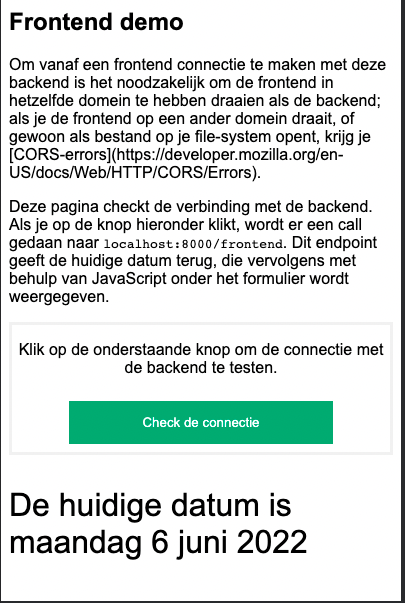
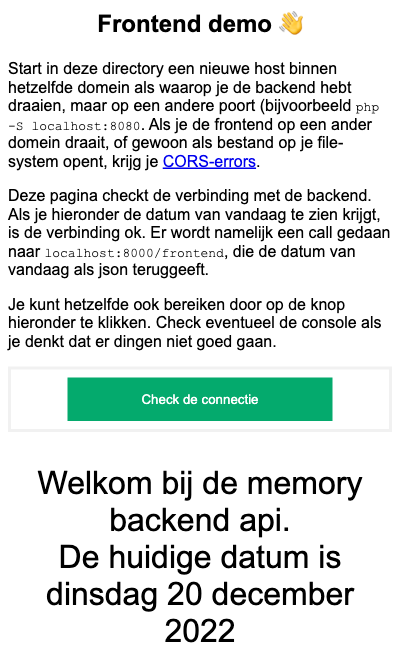
Nieuw endpoint voor het aantal spelletje per dag 😅🥖

diff --git a/frontend/index.html b/frontend/index.html
@@ -8,24 +8,26 @@
     <style>
         body {font-family: Arial, Helvetica, sans-serif;}
         form {border: 3px solid #f1f1f1; text-align:center;}
+        h2 { text-align:center; }
 
         input[type=text], input[type=password] { width: 100%; padding: 12px 20px; margin: 8px 0; display: inline-block; border: 1px solid #ccc; box-sizing: border-box; }
         button { background-color: #04AA6D; color: white; padding: 14px 20px; margin: 8px 0; border: none; cursor: pointer; width: 70%; }
         button:hover { opacity: 0.8; }
         .container { padding: 16px; }
-        #result { font-size:2rem; }
+        #result { font-size:2rem; text-align:center; }
     </style>
 </head>
 <body>
 
-    <h2>Frontend demo</h2>
+    <h2>Frontend demo 👋</h2>
 
-    <p>Om vanaf een frontend connectie te maken met deze backend is het noodzakelijk om de frontend in hetzelfde domein te hebben draaien als de backend; als je de frontend op een ander domein draait, of gewoon als bestand op je file-system opent, krijg je <a href="https://developer.mozilla.org/en-US/docs/Web/HTTP/CORS/Errors">CORS-errors</a>.</p>
-    <p>Deze pagina checkt de verbinding met de backend. Als je op de knop hieronder klikt, wordt er een call gedaan naar <tt>localhost:8000/frontend</tt>. Dit endpoint geeft de huidige datum terug, die vervolgens met behulp van JavaScript onder het formulier wordt weergegeven.</p>
+    <p>Start in deze directory een nieuwe host binnen hetzelfde domein als waarop je de backend hebt draaien, maar op een andere poort (bijvoorbeeld <tt>php -S localhost:8080</tt>. Als je de frontend op een ander domein draait, of gewoon als bestand op je file-system opent, krijg je <a href="https://developer.mozilla.org/en-US/docs/Web/HTTP/CORS/Errors">CORS-errors</a>.</p>
 
+    <p>Deze pagina checkt de verbinding met de backend. Als je hieronder de datum van vandaag te zien krijgt, is de verbinding ok. Er wordt namelijk een call gedaan naar <tt>localhost:8000/frontend</tt>, die de datum van vandaag als json teruggeeft.</p>
 
+    <p>Je kunt hetzelfde ook bereiken door op de knop hieronder te klikken. Check eventueel de console als je denkt dat er dingen niet goed gaan.</p>
+        
     <form>
-        <p>Klik op de onderstaande knop om de connectie met de backend te testen.</p>
         <button id="btn" value="">Check de connectie</button>
     </form>
 
@@ -34,11 +36,19 @@
 </body>
 
 <script>
+
+    const check = () => {
         fetch('http://localhost:8000/frontend')
         .then( resp => resp.json() )
         .then( json => {
+            console.log(json)
             let datum = new Date(json['date']).toLocaleDateString('NL-nl', { weekday: 'long', year: 'numeric', month: 'long', day: 'numeric'} )
-            document.getElementById('result').innerHTML = `De huidige datum is ${datum}`
+            document.getElementById('result').innerHTML = json['message']
+            document.getElementById('result').innerHTML += `<br/>De huidige datum is ${datum}`
         })
+    }
+
+    check()
+    document.getElementById('btn').addEventListener('click', c => check() )
 </script>
 </html>

diff --git a/src/Controller/AdminController.php b/src/Controller/AdminController.php
@@ -3,6 +3,7 @@
 namespace App\Controller;
 
 use Doctrine\Persistence\ManagerRegistry;
+use Psr\Log\LoggerInterface;
 use Symfony\Bundle\FrameworkBundle\Controller\AbstractController;
 use Symfony\Component\HttpFoundation\JsonResponse;
 use Symfony\Component\Routing\Annotation\Route;
@@ -10,6 +11,7 @@ use Symfony\Component\Routing\Annotation\Route;
 #[Route('/api/admin')]
 class AdminController extends AbstractController
 {
+    public function __construct(private LoggerInterface $logger) {}
     #[Route('/aggregate', methods: ['GET'])]
     public function aggregateData(ManagerRegistry $doctrine)
     {
@@ -30,4 +32,32 @@ class AdminController extends AbstractController
         $players = $em->createQuery("select p.username, p.email from App\Entity\Player p")->getArrayResult();
         return new JsonResponse($players);
     }
+
+    /*
+     * Onderstaande endpoint geeft het aantal spelen dat per dag gespeeld is terug
+     * Feitelijk is dit gewoon een `group by`, maar dat kregen we niet aan de praat
+     * in DBAL. Dus we hebben we het maar gewoon met een loopje gemaakt.
+     *
+     * Iemand een betere oplossing hiervoor heeft, is welkom om een PR te doen. Als -ie
+     * goed is, krijg je een snikker.
+     *
+     * BABA/HOEM
+     */
+
+    #[Route('/dates', methods: ['GET'])]
+    public function getAggregatedByDate(ManagerRegistry $doctrine) {
+        $em = $doctrine->getManager();
+        $games = $em->createQuery("select g.dateTime as date from App\Entity\Game g order by date")->getArrayResult();
+
+        $cnt = [];
+        foreach ($games as $el) {
+            $key = $el['date']->format('Y-m-d');
+            $cnt[$key] = array_key_exists($key, $cnt) ?  $cnt[$key]+1 : 1;
+        }
+
+        return new JsonResponse($cnt);
+    }
+
+
+
 }

diff --git a/src/Entity/Game.php b/src/Entity/Game.php
@@ -18,7 +18,7 @@ use phpDocumentor\Reflection\Types\True_;
 class Game implements \JsonSerializable {
 
     #[Column(unique:true)] #[Id] #[GeneratedValue] private int $id;
-    #[Column] public \DateTime $date;
+    #[Column(name:'date')] public \DateTime $dateTime;
     #[Column] public float $score;
 
     // optional string for api used in this game
@@ -41,7 +41,7 @@ class Game implements \JsonSerializable {
     {
         $this->player = new ArrayCollection();
         $this->player[] = $player;
-        $this->date = new \DateTime('now');
+        $this->dateTime = new \DateTime('now');
         $this->score = $params['score'];
         $this->api = $params['api'] ?? '';
         $this->color_found = $params['color_found'] ?? '';
@@ -50,9 +50,14 @@ class Game implements \JsonSerializable {
 
     public function getId(): int { return $this->id; }
 
+    public function getDayFromDate():string {
+        return $this->dateTime->format('Y-m-d');
+    }
+
     public function jsonSerialize():mixed {
         return array(
-            'date' => $this->date,
+            'date' => $this->dateTime,
+            'day' => $this->getDayFromDate(),
             'score' => $this->score,
             'api' => $this->api,
             'color_closed' => $this->color_closed,

diff --git a/src/Controller/PlayerController.php b/src/Controller/PlayerController.php
@@ -6,6 +6,7 @@ use App\Entity\Player;
 
 use Doctrine\ORM\EntityManager;
 use Doctrine\Persistence\ManagerRegistry;
+use Psr\Log\LoggerInterface;
 use Symfony\Bundle\FrameworkBundle\Controller\AbstractController;
 use Symfony\Component\HttpFoundation\Request;
 use Symfony\Component\HttpFoundation\Response;
@@ -15,6 +16,8 @@ use Symfony\Component\HttpFoundation\JsonResponse;
 
 #[Route("/api/player/")]
 class PlayerController extends AbstractController {
+
+    public function __construct(private LoggerInterface $logger) { }
 
     #[Route('{id}', requirements:['id'=>'\d+'])]
     public function getUserData($id, ManagerRegistry $doctrine):Response {

diff --git a/src/Controller/DefaultController.php b/src/Controller/DefaultController.php
@@ -15,12 +15,13 @@ use Symfony\Component\HttpFoundation\JsonResponse;
 class DefaultController extends AbstractController {
     #[Route('/', methods:['GET'])]
     public function index(LoggerInterface $logger):Response {
-//        $logger->info("Hallo allemaal");
+//        $logger->info("Hallo allemaal");dd
         return new Response('DefaultController');
     }
 
     #[Route('/frontend', methods:['GET'])]
     public function demo():Response {
+        $rv['message'] = 'Welkom bij de memory backend api.';
         $rv['date'] = date("F j, Y, g:i a");
         return new JsonResponse($rv);
     }

diff --git a/README.md b/README.md
@@ -111,6 +111,7 @@ Methode en end-point | return value | omschrijving
 ----|----|----
 `GET /api/admin/aggregate` | 200 Ok | Totaal aantal gespeelde spellen en spelers; overzicht van de gekozen api's
 `GET /api/admin/players` | 200 Ok | Overzicht van gebruikersnamen en email-adressen van alle spelers
+`GET /api/admin/dates` | 200 Ok | Totaal van het aantal gespeelde spelletjes per dag
 
 ## Logging
 
